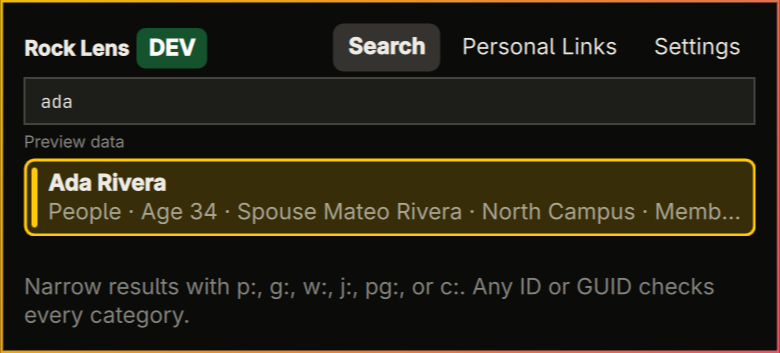
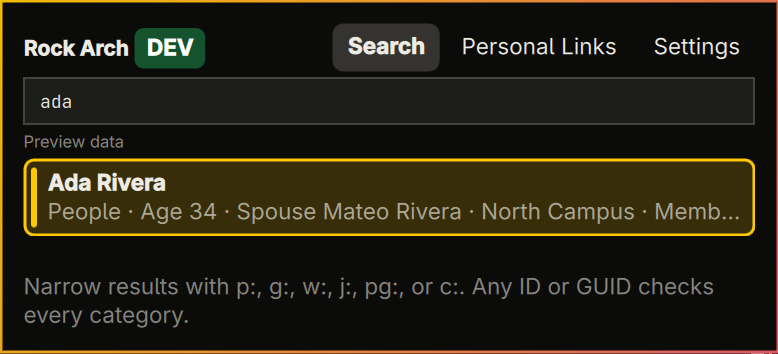
Refresh Rock Arch documentation screenshots

diff --git a/docs/KEYBOARD-AUDIT.md b/docs/KEYBOARD-AUDIT.md
@@ -42,21 +42,19 @@ only in PROD and only when the active Rock profile reports access.
    moves to Cancel, Enter activates the focused action, and Esc cancels. No
    production build was started during this audit.
 8. **Settings — healthy.** Tab/Shift+Tab walk profile controls, login fields,
-   preferences, and categories; focused controls are scrolled into view.
+   preferences, categories, update actions, and the automatic-update toggle;
+   focused controls are scrolled into view.
 
 ## Privacy-safe visual evidence
 
-The retained captures are cropped to Rock Arch and use synthetic content where
-possible. No credentials, tenant domain, raw Rock identifiers, Personal Link
-targets, or Magnus file contents are present.
-
-![Empty Search and Recent Links](../outputs/keyboard-audit/01-search-start.png)
+The retained captures are cropped to Rock Arch and contain no credentials,
+tenant domain, raw Rock identifiers, Personal Link targets, or Magnus file
+contents. Search uses deterministic synthetic data; the Settings crop contains
+only the update controls.
 
 ![Selected search result](../outputs/keyboard-audit/02-search-results.png)
 
-![Personal Links state](../outputs/keyboard-audit/03-personal-links.png)
-
-![Magnus deployment confirmation](../outputs/keyboard-audit/05-magnus-confirmation.png)
+![Settings update controls](../outputs/keyboard-audit/03-settings-updates.png)
 
 ## Keyboard map
 

diff --git a/docs/VERIFICATION.md b/docs/VERIFICATION.md
@@ -89,16 +89,16 @@ push to `main` and on pull requests.
 
 ## UI evidence
 
-The README uses the current selection and deployment-confirmation UI:
+The README uses current, panel-only Search and Settings UI:
 
 - [`02-search-results.png`](../outputs/keyboard-audit/02-search-results.png)
   contains only deterministic DEV search data.
-- [`05-magnus-confirmation.png`](../outputs/keyboard-audit/05-magnus-confirmation.png)
-  shows the bounded `Test` confirmation and does not trigger a deployment.
+- [`03-settings-updates.png`](../outputs/keyboard-audit/03-settings-updates.png)
+  shows only the installed update status and opt-in automatic-update control.
 
-Both images are cropped to the Rock Arch panel and contain no desktop, tenant,
-credential, or live record data. See [KEYBOARD-AUDIT.md](KEYBOARD-AUDIT.md) for
-the interaction coverage represented by these captures.
+Both images contain no desktop, tenant, credential, or live record data. See
+[KEYBOARD-AUDIT.md](KEYBOARD-AUDIT.md) for the interaction coverage represented
+by these captures.
 
 ## Local acceptance
 

diff --git a/README.md b/README.md
@@ -15,8 +15,6 @@ Accounts with Magnus access automatically receive the Magnus tab, including
 folder browsing, bounded previews, downloads, clipboard actions, hashes, and
 explicitly confirmed mobile-app builds.
 
-![Current Magnus deployment confirmation with keyboard focus](outputs/keyboard-audit/05-magnus-confirmation.png)
-
 ## Install
 
 Rock Arch supports Omarchy 4.0.2 or newer. Install the Git repository directly:
@@ -64,6 +62,8 @@ Update checks use the public Git remote and do not need GitHub credentials or a
 token. Non-Git and development checkouts remain manually managed. Release notes
 and publisher steps live in [CHANGELOG.md](CHANGELOG.md) and
 [docs/RELEASING.md](docs/RELEASING.md).
+
+![Rock Arch update controls in Settings](outputs/keyboard-audit/03-settings-updates.png)
 
 The installed Omarchy integration uses `$XDG_RUNTIME_DIR/rock-arch/broker.sock`
 and starts the broker without passing queries or credentials as arguments.

diff --git a/CHANGELOG.md b/CHANGELOG.md
@@ -45,6 +45,13 @@ repository's default branch is the source used by Omarchy plugin updates.
 - Pin CI actions and lint/type-check tool versions to immutable revisions.
 - Launch the broker with the absolute system Python path.
 
+### Fixed
+
+- Use native Qt tab-focus properties in every split panel and retry the initial
+  status request until the local broker is ready, preventing an empty or frozen
+  startup after an Omarchy shell reload.
+- Use a valid Qt item for the Recent Links clear-button background.
+
 ## [0.14.0] - 2026-09-02
 
 ### Changed
